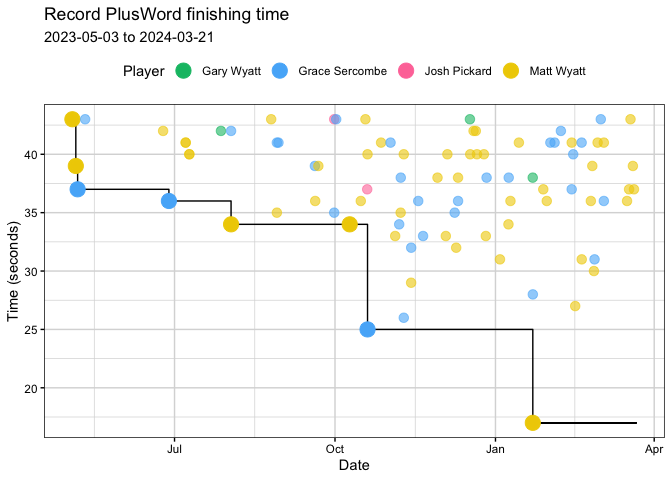
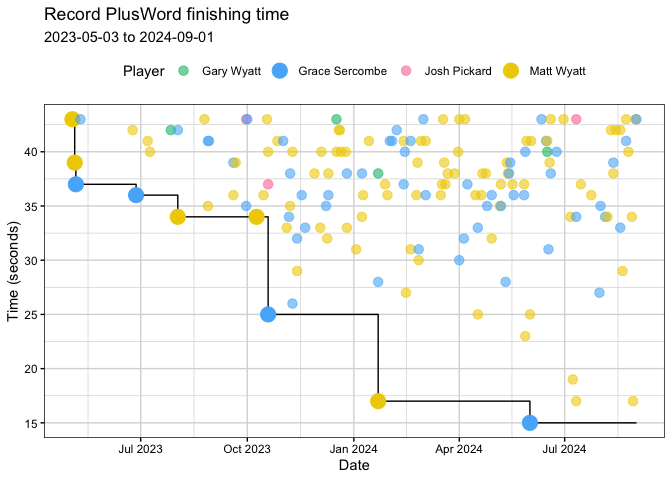
Render latest results

diff --git a/README.md b/README.md
@@ -1,15 +1,16 @@
 # PlusWord Analysis
 
+
 ## Overall Ranking
 
-| Player         |   1 |   2 |   3 |   4 |   5 |   6 |   7 | Games |
-|:---------------|----:|----:|----:|----:|----:|----:|----:|------:|
-| Matt Wyatt     | 189 | 119 |  35 |  25 |   6 |   1 |   0 |   375 |
-| Grace Sercombe | 122 |  95 |  36 |  22 |   7 |   1 |   0 |   283 |
-| Gary Wyatt     |  25 |  45 | 100 |  96 |  34 |  13 |   0 |   313 |
-| Alison Wyatt   |   9 |  36 |  70 |  81 |  85 |  17 |   0 |   298 |
-| Sally Wyatt    |   7 |  11 |  37 |  61 |  58 |  36 |   0 |   210 |
-| Josh Pickard   |   4 |  13 |  16 |  14 |  17 |  12 |   1 |    77 |
+| Player         |   1 |   2 |   3 |   4 |   5 |   6 | Games |
+|:---------------|----:|----:|----:|----:|----:|----:|------:|
+| Matt Wyatt     | 247 | 139 |  40 |  30 |   9 |   1 |   466 |
+| Grace Sercombe | 187 | 151 |  51 |  22 |   1 |   1 |   413 |
+| Gary Wyatt     |  32 |  89 | 169 | 122 |  44 |  14 |   470 |
+| Alison Wyatt   |  13 |  57 | 116 | 151 |  95 |  17 |   449 |
+| Sally Wyatt    |  13 |  21 |  73 |  83 |  91 |  28 |   309 |
+| Josh Pickard   |   6 |  24 |  22 |  23 |  24 |  16 |   115 |
 
 ![](plusword_analysis_files/figure-commonmark/total_wins-1.png)
 
@@ -20,7 +21,7 @@ Longest winning streaks for each player.
 | Player         | Longest streak |
 |:---------------|---------------:|
 | Matt Wyatt     |              8 |
-| Grace Sercombe |              5 |
+| Grace Sercombe |              6 |
 | Alison Wyatt   |              2 |
 | Gary Wyatt     |              2 |
 | Josh Pickard   |              1 |
@@ -30,6 +31,8 @@ Longest winning streaks for each player.
 
 ![](plusword_analysis_files/figure-commonmark/time_boxplots-1.png)
 
+![](plusword_analysis_files/figure-commonmark/moving_average_time-1.png)
+
 ![](plusword_analysis_files/figure-commonmark/fastest_time-1.png)
 
 ![](plusword_analysis_files/figure-commonmark/fastest_time_evolution-1.png)
@@ -38,16 +41,16 @@ Ten fastest times overall.
 
 | Rank | Player         | Date       | Time (s) |
 |-----:|:---------------|:-----------|---------:|
-|    1 | Matt Wyatt     | 2024-01-22 |       17 |
-|    2 | Grace Sercombe | 2023-10-19 |       25 |
-|    3 | Grace Sercombe | 2023-11-09 |       26 |
-|    4 | Matt Wyatt     | 2024-02-15 |       27 |
-|    5 | Grace Sercombe | 2024-01-22 |       28 |
-|    6 | Matt Wyatt     | 2023-11-13 |       29 |
-|    7 | Matt Wyatt     | 2024-02-26 |       30 |
-|    8 | Matt Wyatt     | 2024-01-03 |       31 |
-|    8 | Matt Wyatt     | 2024-02-19 |       31 |
-|    8 | Grace Sercombe | 2024-02-26 |       31 |
+|    1 | Grace Sercombe | 2024-06-01 |       15 |
+|    2 | Matt Wyatt     | 2024-01-22 |       17 |
+|    2 | Matt Wyatt     | 2024-07-11 |       17 |
+|    2 | Matt Wyatt     | 2024-08-29 |       17 |
+|    5 | Matt Wyatt     | 2024-07-08 |       19 |
+|    6 | Matt Wyatt     | 2024-05-28 |       23 |
+|    7 | Grace Sercombe | 2023-10-19 |       25 |
+|    7 | Matt Wyatt     | 2024-04-17 |       25 |
+|    7 | Matt Wyatt     | 2024-06-01 |       25 |
+|   10 | Grace Sercombe | 2023-11-09 |       26 |
 
 ## Time since last win
 
